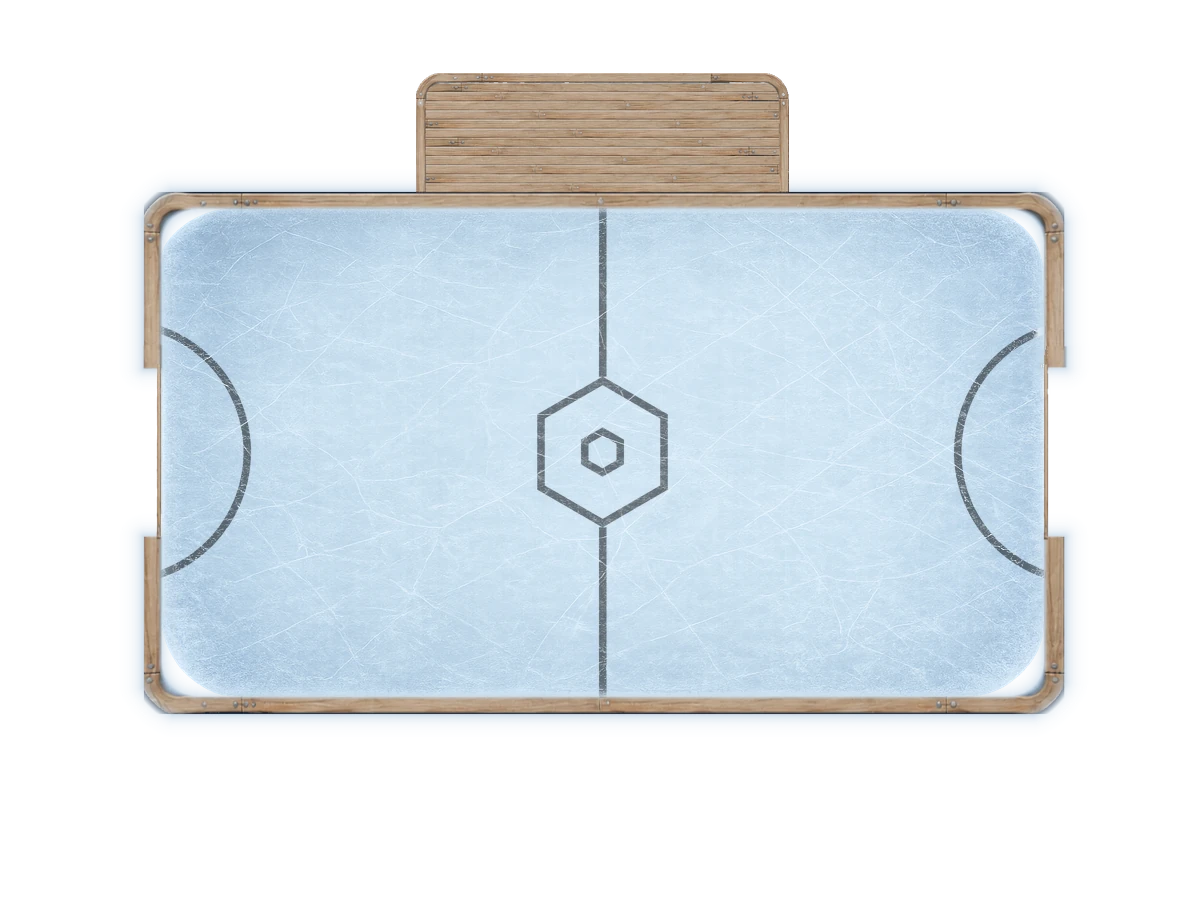
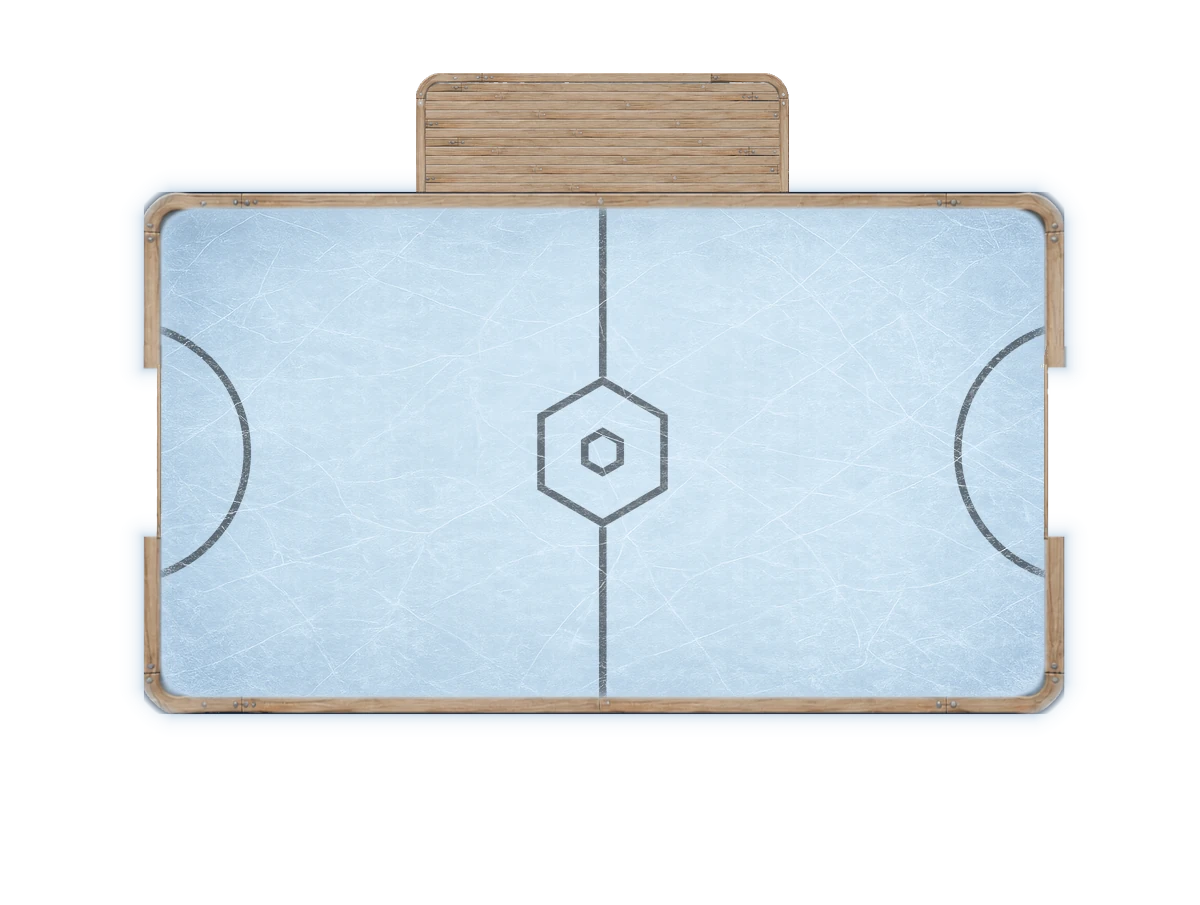
Fix corner gaps and match design-lab's board size
- Ice: pasting glace-pure-v3.png flush at exactly the physics-box size left a
  partially-transparent sliver at the box's sharp corners (its own rounded
  corners can never fill a sharp one). Ported design-lab's fix: oversize the
  ice 108% bleeding past the box, over a flat fallback fill sampled from the
  ice's own center tone standing in for that last corner sliver.
- #stage-wrap sizing: was width+height dual-constrained (min(92vw, 92vh*..,
  1100px)) to fix desktop overflow, but that made the board visibly smaller
  than design-lab's own width-only formula (51vw/834px on the physics box)
  validates. Switched to the same width-only formula (converted to this
  element's full-canvas space), matching the lab's board size on the actual
  target (phones in portrait, where height is never the binding constraint).

diff --git a/src/style.css b/src/style.css
@@ -25,12 +25,14 @@ html, body {
 
 #app { position: relative; z-index: 1; height: 100%; display: flex; flex-direction: column; align-items: center; justify-content: center; gap: 10px; padding: 10px; }
 
-/* Bounded by BOTH viewport width and height (not just width) so the board
-   shrinks to fit on short/wide viewports too, leaving visible margin all
-   around for the constellation background — canvas keeps its native
-   1200:905 aspect ratio (see the W/H comment in game.js) via this same
-   ratio baked into the width formula, height:auto below just follows it. */
-#stage-wrap { position: relative; width: min(92vw, 92vh * 1200 / 905, 1100px); }
+/* Width-only sizing, ported 1:1 from design-lab's #ui-physics-bounds
+   (`width: 51vw; max-width: 834px` on the 887x492 physics box) — converted to
+   this element's own 1200x905 canvas space by the constant 1200/887 ratio, so
+   the board matches the size validated in the lab instead of also being
+   capped by viewport height (that cap fixed short/wide desktop windows but
+   under-sized the board everywhere else — the real target, phones in
+   portrait, has height to spare and matches the lab's own assumption). */
+#stage-wrap { position: relative; width: min(69vw, 1128px); }
 canvas {
   display: block; width: 100%; height: auto; touch-action: none;
 }

diff --git a/scripts/bake_arena.py b/scripts/bake_arena.py
@@ -29,7 +29,23 @@ def load(name):
 canvas = Image.new("RGBA", (W, H), (0, 0, 0, 0))
 
 # ---------- 1. Ice ----------
-ice = load("glace-pure-v3.png").resize((PW, PH), Image.LANCZOS)
+# glace-pure-v3.png has real alpha with its OWN rounded corners — pasting it
+# flush at exactly the physics-box size leaves a partially-transparent sliver
+# at the box's sharp corners (a bigger rounded corner is still a rounded
+# corner, it never fills a sharp one). Ported from design-lab's #ui-terrain-crop
+# fix: oversize the ice 108% so it bleeds past the box on all sides, over a
+# flat fallback fill (sampled from the ice's own center tone) that stands in
+# for that last corner sliver — invisible everywhere the real ice covers it.
+ICE_OVERSIZE = 1.08
+ice_src = load("glace-pure-v3.png")
+_ice_sample = np.array(ice_src.convert("RGB"))
+_h, _w = _ice_sample.shape[:2]
+FALLBACK_COLOR = tuple(int(c) for c in _ice_sample[_h // 2 - 20:_h // 2 + 20, _w // 2 - 20:_w // 2 + 20].reshape(-1, 3).mean(axis=0))
+
+ice = Image.new("RGBA", (PW, PH), FALLBACK_COLOR + (255,))
+ow, oh = round(PW * ICE_OVERSIZE), round(PH * ICE_OVERSIZE)
+ice_oversized = ice_src.resize((ow, oh), Image.LANCZOS)
+ice.alpha_composite(ice_oversized, (-(ow - PW) // 2, -(oh - PH) // 2))
 
 # ---------- 2. Field lines (halfway line, hexagons, goal creases), textured
 #    with the ice's own high-pass grain, per drawFieldLines() in main.js ----------
